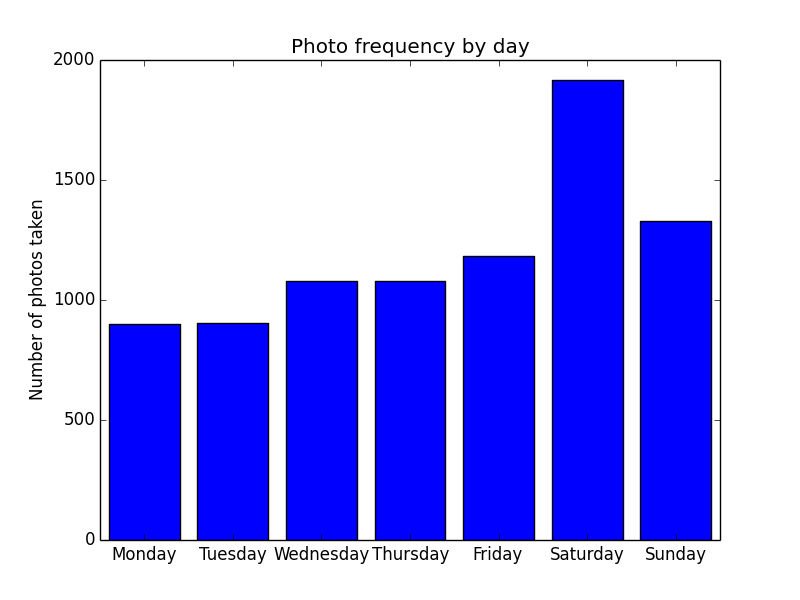
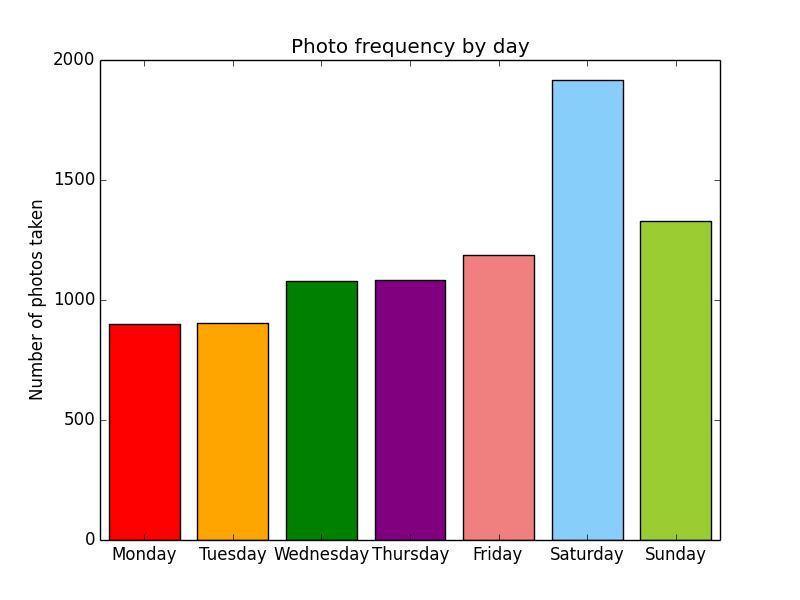
Added a breakdown of the seasons

Changed region(s): [[0.125, 0.12, 0.9062, 0.9]]

diff --git a/count_days.py b/count_days.py
@@ -34,12 +34,11 @@ for (k,v) in days_sorted:
 from matplotlib import pyplot as plt
 
 ######## Bar Chart ########
+colors = ['red', 'orange', 'green', 'purple', 'lightcoral', 'lightskyblue', 'yellowgreen']
 xs = [i + 0.1 for i, _ in enumerate(days)]
-plt.bar(xs, count)
-
+plt.bar(xs, count, color = colors)
 plt.ylabel("Number of photos taken")
 plt.title("Photo frequency by day")
-
 plt.xticks([i + 0.5 for i, _ in enumerate(days)], days)
 #plt.show()
 plt.savefig('img/weekdays_bar.png')

diff --git a/README.md b/README.md
@@ -11,19 +11,28 @@ This is a personal project to apply some data science skills I've been learning.
   - D3.js
   - matplotlib
 
-## all.scpt
+## Dependencies
 
-This is the AppleScript that contains the instructions for running everything from beginning to end. It runs each of the individual scripts below then launches the resulting images in Preview.
+1. Mac OS X (I'm using 10.11, but it should work on 10.10 and above) with the built-in [Script Editor](http://guides.macrumors.com/Script_Editor) still installed.
+2. Photos inside [Photos.app](https://www.apple.com/osx/photos/), the built-in photos application on Mac OS X 10.10 and above
+3. [TextWrangler](https://itunes.apple.com/us/app/textwrangler/id404010395?mt=12), a free text editor on Mac OS X
+4. [Python](https://www.python.org/downloads/)
 
-### How to use
+## How to use
 
 Open `all.scpt` with `Script Editor.app`, which is usually in `Applications/Utilities`. Press "Run" or hit cmd + R. Depending on the size of your photo library, it might take anywhere from a few seconds to a few minutes. It took 37 seconds for my 8275 photos.
 
-You'll see TextWrangler flash by for a second, then the Python script will run the counts in the background, then Preview will launch and show two charts with your data. They should look look something like this:
+You'll see TextWrangler flash by for a second, then the Python script will run the counts in the background, then Preview will launch and show four charts with your data. They should look look something like this:
 ![Number of photos taken on each day of the week](img/weekdays_bar_example.png)
 ![Percentage of photos by weekday](img/weekdays_pie_example.png)
+![Number of photos by season](img/seasons_bar_example.png)
+![Percentage of photos by season](img/seasons_pie_example.png)
 
 ## The Scripts
+
+### all.scpt
+
+This is the AppleScript that contains the instructions for running everything from beginning to end. It runs each of the individual scripts below then launches the resulting images in Preview.
 
 ###  extract_metadata_from_photos_app.scpt
 This file takes the date and location information from all of your photos in Photos.app on Mac OS X and writes them to a file called `photo_dates_location.csv` with the proper headers inside the same folder where this script is stored. 
@@ -34,15 +43,11 @@ This AppleScript opens the CSV generated above in TextWrangler and runs two find
 ### count_days.py
 This Python script reads the cleaned-up CSV, counts how many photos were taken on each of the days of the week, then uses [matplotlob](http://matplotlib.org) to make bar and pie charts out of the resulting data. These charts are then saved to the `img` folder.
 
-## Dependencies
-
-1. Mac OS X (I'm using 10.11, but it should work on 10.10 and above) with the built-in [Script Editor](http://guides.macrumors.com/Script_Editor) still installed.
-2. Photos inside [Photos.app](https://www.apple.com/osx/photos/), the built-in photos application on Mac OS X 10.10 and above
-3. [TextWrangler](https://itunes.apple.com/us/app/textwrangler/id404010395?mt=12), a free text editor on Mac OS X
-4. [Python 2](https://www.python.org/downloads/)
+### seasons.py
+This Python script searches through the dates and organizes them by season, sums the totals, then uses [matplotlob](http://matplotlib.org) to make bar and pie charts out of the resulting data. These charts are then saved to the `img` folder.
 
 ## To Do
 - [x] Create Python scripts to count days of the week
-- [ ] Break down seasons
+- [x] Break down seasons
 - [ ] Cluster time of day
 - [ ] Put locations on a map
